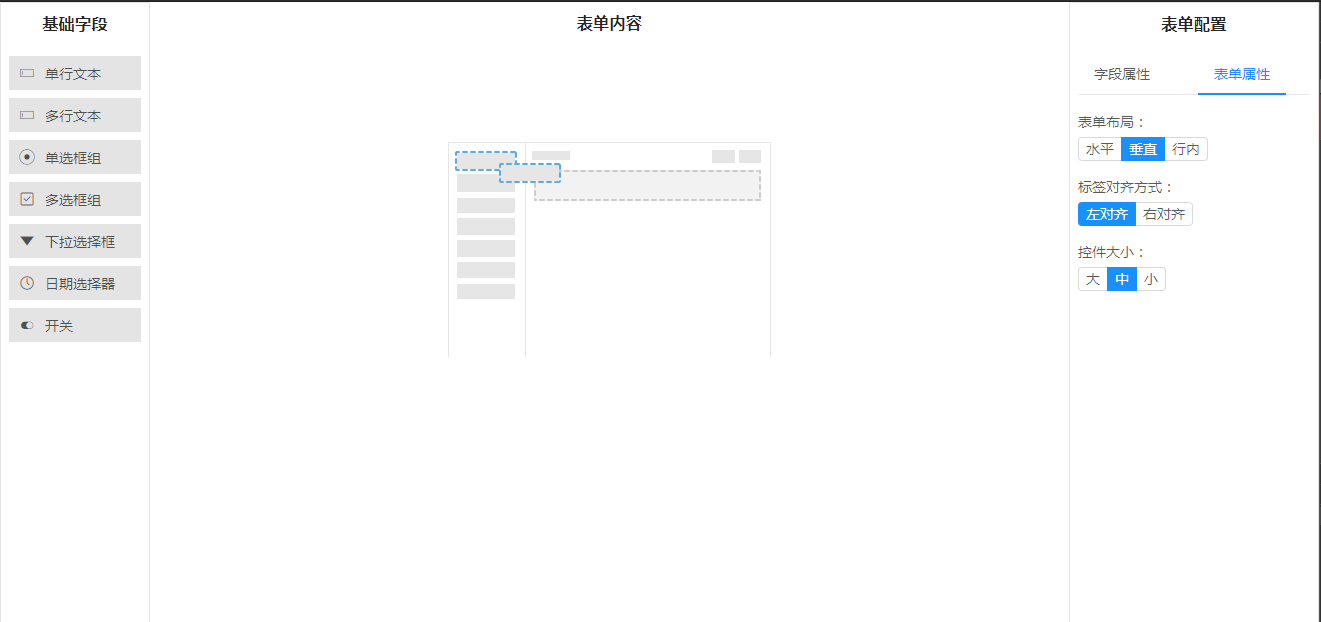
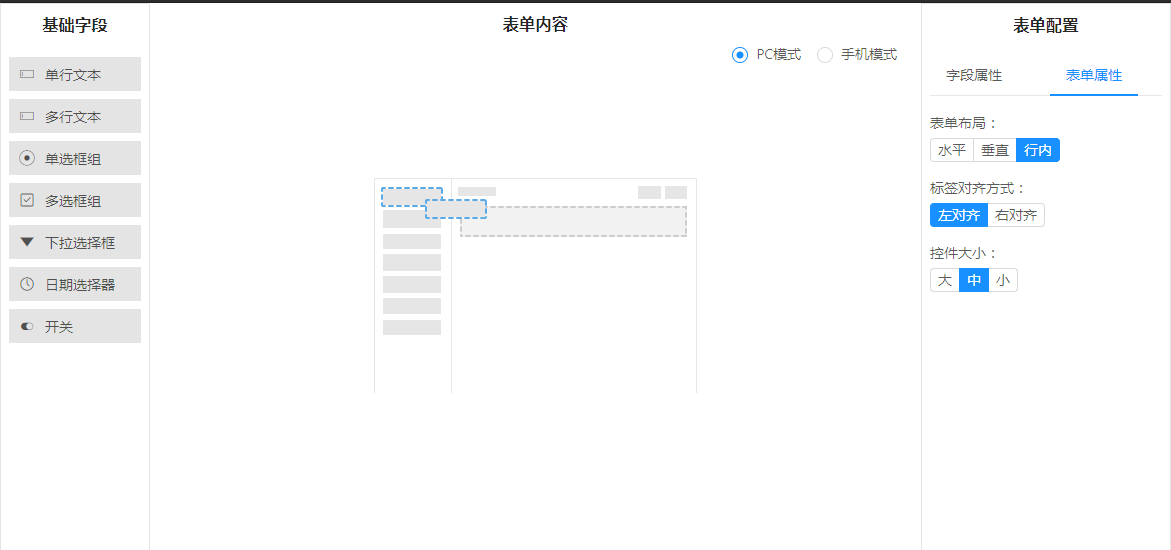
feat：支持手机表单模式

diff --git a/src/styles/form-design.less b/src/styles/form-design.less
@@ -2,7 +2,7 @@
     display: flex;
     display: -webkit-flex;
     justify-content: space-between;
-    min-height: 800px;
+    min-height: 850px;
 
     >.left {
         border: 1px solid #E4E4E4;
@@ -46,6 +46,7 @@
         display: flex;
         flex-direction: column;
         padding-top: 0;
+        align-items: center;
 
         >.title {
             padding: 8px;
@@ -60,7 +61,8 @@
             flex-grow: 1;
             min-height: 100px;
             padding: 8px;
[2 lines of base64/hex data omitted]
+            width: 100%;
 
             .cell {
                 border: 1px dashed lightgrey;
@@ -68,7 +70,48 @@
                 padding: 8px;
                 transition: background-color 0.2s ease;
                 position: relative;
-                
+
+                &:hover {
+                    background-color: lightblue;
+                }
+
+                >.form-item {}
+            }
+
+            .cell-active {
+                background-color: lightblue;
+            }
+        }
+
+        .shell_phone {
+            transition: background-color 0.2s ease;
+            background-color: #fff;
+            flex-grow: 1;
+            min-height: 100px;
+            padding: 8px;
[1 lines of base64/hex data omitted]
+            background-size: 380px 760px;
+            width: 380px;
+            position: relative;
+
+            >.ant-form {
+                position: absolute;
+                top: 80px;
+                left: 20px;
+                width: 340px;
+                height: 580px;
+                overflow-y: auto;
[1 lines of base64/hex data omitted]
+            }
+
+            .cell {
+                border: 1px dashed lightgrey;
+                border-radius: 2px;
+                padding: 8px;
+                transition: background-color 0.2s ease;
+                position: relative;
+                background-color: #FFFFFF;
+
                 &:hover {
                     background-color: lightblue;
                 }

diff --git a/src/components/form-design/Mid.jsx b/src/components/form-design/Mid.jsx
@@ -1,7 +1,7 @@
 /*
  * @Author: your name
  * @Date: 2020-06-01 11:41:44
- * @LastEditTime: 2020-06-04 15:45:03
+ * @LastEditTime: 2020-06-05 10:16:32
  * @LastEditors: Please set LastEditors
  * @Description: In User Settings Edit
  * @FilePath: \react-form-design\src\container\column.js
@@ -10,7 +10,7 @@
 import React, { Component } from 'react'
 import FormItem from './FormItem'
 import { Droppable } from 'react-beautiful-dnd'
-import { Form, Modal } from 'antd'
+import { Form, Modal, Switch, Radio } from 'antd'
 import { inject, observer } from 'mobx-react';
 import common from '@/utils/common'
 import Preview from './Preview'
@@ -49,19 +49,25 @@ class Mid extends Component {
     render() {
         const config = this.props.store.config.get
         const content = this.props.store.content.get
+        const mode = this.props.store.mode.get
         return (
             <div className="mid" style={{ width: 'calc(100% - 416px)' }}>
-                <h3 className="title">
-                    {
-                        common.isEmpty(content) ? '' :
-                            <a style={{ float: 'left' }} onClick={() => this.setState({ visible: true })} >点击预览</a>
-                    }
-                表单内容
-                </h3>
+                <h3 className="title">表单内容</h3>
+                <p style={{ width: '100%' }}> {
+                    common.isEmpty(content) ? '' :
+                        <a style={{ float: 'left' }} onClick={() => this.setState({ visible: true })} >点击预览</a>
+                }
+                    <Radio.Group style={{ float: 'right' }} onChange={e => {
+                        this.props.store.mode.set(e.target.value)
+                    }} value={mode}>
+                        <Radio value='pc'>PC模式</Radio>
+                        <Radio value='phone'>手机模式</Radio>
+                    </Radio.Group>
+                </p>
                 <Droppable droppableId={'content'} >
                     {(provided, snapshot) => {
                         return (
-                            <div className="shell"
+                            <div className={mode === 'pc' ? 'shell' : 'shell_phone'}
                                 ref={provided.innerRef}
                                 {...provided.droppableProps}
                                 isDraggingOver={snapshot.isDraggingOver}

diff --git a/src/components/form-design/FormItem.jsx b/src/components/form-design/FormItem.jsx
@@ -1,7 +1,7 @@
 /*
  * @Author: your name
  * @Date: 2020-06-01 17:36:39
- * @LastEditTime: 2020-06-04 15:57:20
+ * @LastEditTime: 2020-06-05 09:54:12
  * @LastEditors: Please set LastEditors
  * @Description: In User Settings Edit
  * @FilePath: \react-form-design\src\container\FormItem.js
@@ -157,7 +157,7 @@ class FormItem extends Component {
                                                             },
                                                         ],
                                                     })(
-                                                        <Select style={{ width: data.options.width }} size={this.props.size} placeholder={placeholder} value={common.isEmpty(defaultValue) ? undefined : defaultValue}>
+                                                        <Select style={{ width: data.options.width, minWidth: '180px' }} size={this.props.size} placeholder={placeholder} value={common.isEmpty(defaultValue) ? undefined : defaultValue}>
                                                             {
                                                                 data.options.options.map((el, i) =>
                                                                     <Select.Option value={el.value} key={i}>{el.label}</Select.Option>
@@ -226,7 +226,7 @@ class FormItem extends Component {
                                 ></span>
                                 <span className="iconfont icon-shanchu" title="删除" style={{ fontSize: '20px', cursor: 'pointer' }}
                                     onClick={() => {
-                                        if (content.length > 0) {
+                                        if (content.length > 1) {
                                             this.props.store.activeId.set(content[this.props.index - 1].id)
                                         }
                                         content.splice(this.props.index, 1)

diff --git a/src/components/form-design/Preview.jsx b/src/components/form-design/Preview.jsx
@@ -68,7 +68,7 @@ class Preview extends Component {
                                             return <Checkbox.Group options={el.options.options} size={config.size} defaultValue={defaultValue} />
                                         case 'select':
                                             return (
-                                                <Select style={{ width: el.options.width }} size={config.size} placeholder={placeholder} defaultValue={common.isEmpty(defaultValue) ? undefined : defaultValue}>
+                                                <Select style={{ width: el.options.width, minWidth: '180px' }} size={config.size} placeholder={placeholder} defaultValue={common.isEmpty(defaultValue) ? undefined : defaultValue}>
                                                     {
                                                         el.options.options.map((el2, j) =>
                                                             <Select.Option value={el2.value} key={j}>{el2.label}</Select.Option>

diff --git a/src/store/FormDesign.js b/src/store/FormDesign.js
@@ -2,7 +2,7 @@
  * @Author: zengzijian
  * @Date: 2019-08-26 14:17:20
  * @LastEditors: Please set LastEditors
- * @LastEditTime: 2020-06-03 16:53:29
+ * @LastEditTime: 2020-06-05 10:05:28
  * @Description: 
  */
 import { observable, toJS } from 'mobx'
@@ -11,7 +11,7 @@ class store {
 
     @observable config = {
         data: {
-            layout: 'vertical',
+            layout: 'inline',
             labelAlign: 'left',
             size: 'default',
         },
@@ -38,6 +38,16 @@ class store {
 
     @observable activeId = {
         value: '',
+        get get() {
+            return toJS(this.value)
+        },
+        set(value) {
+            this.value = value
+        }
+    }
+
+    @observable mode = {
+        value: 'phone',
         get get() {
             return toJS(this.value)
         },

diff --git a/src/components/form-design/Right.jsx b/src/components/form-design/Right.jsx
@@ -1,7 +1,7 @@
 /*
  * @Author: your name
  * @Date: 2020-06-01 11:41:44
- * @LastEditTime: 2020-06-04 16:00:22
+ * @LastEditTime: 2020-06-05 10:08:25
  * @LastEditors: Please set LastEditors
  * @Description: In User Settings Edit
  * @FilePath: \react-form-design\src\container\column.js
